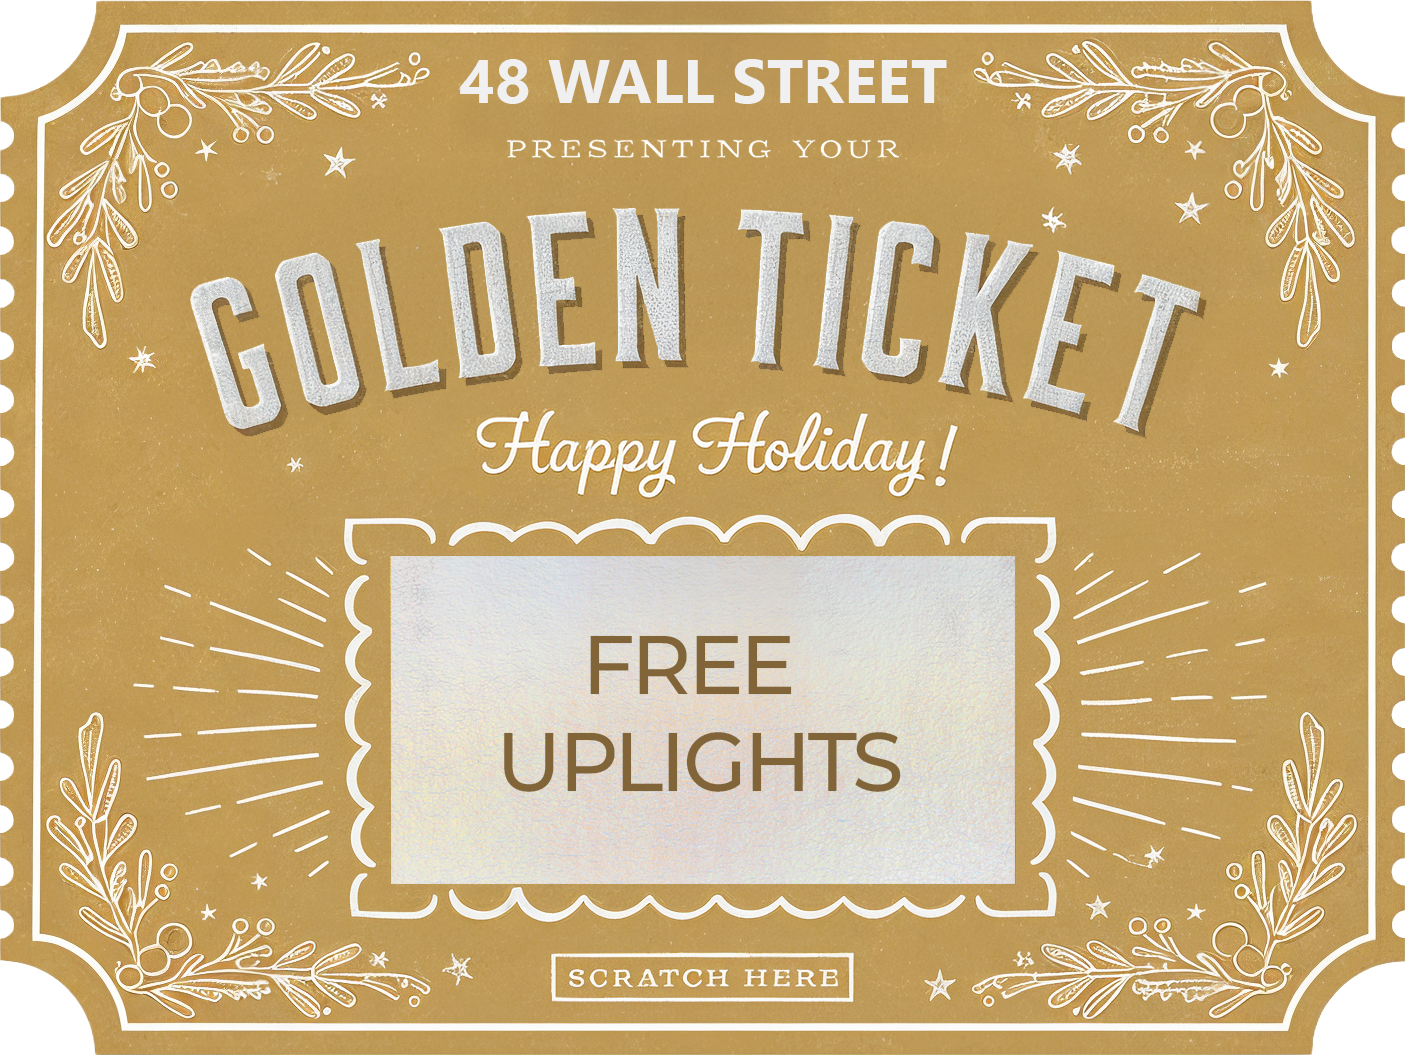
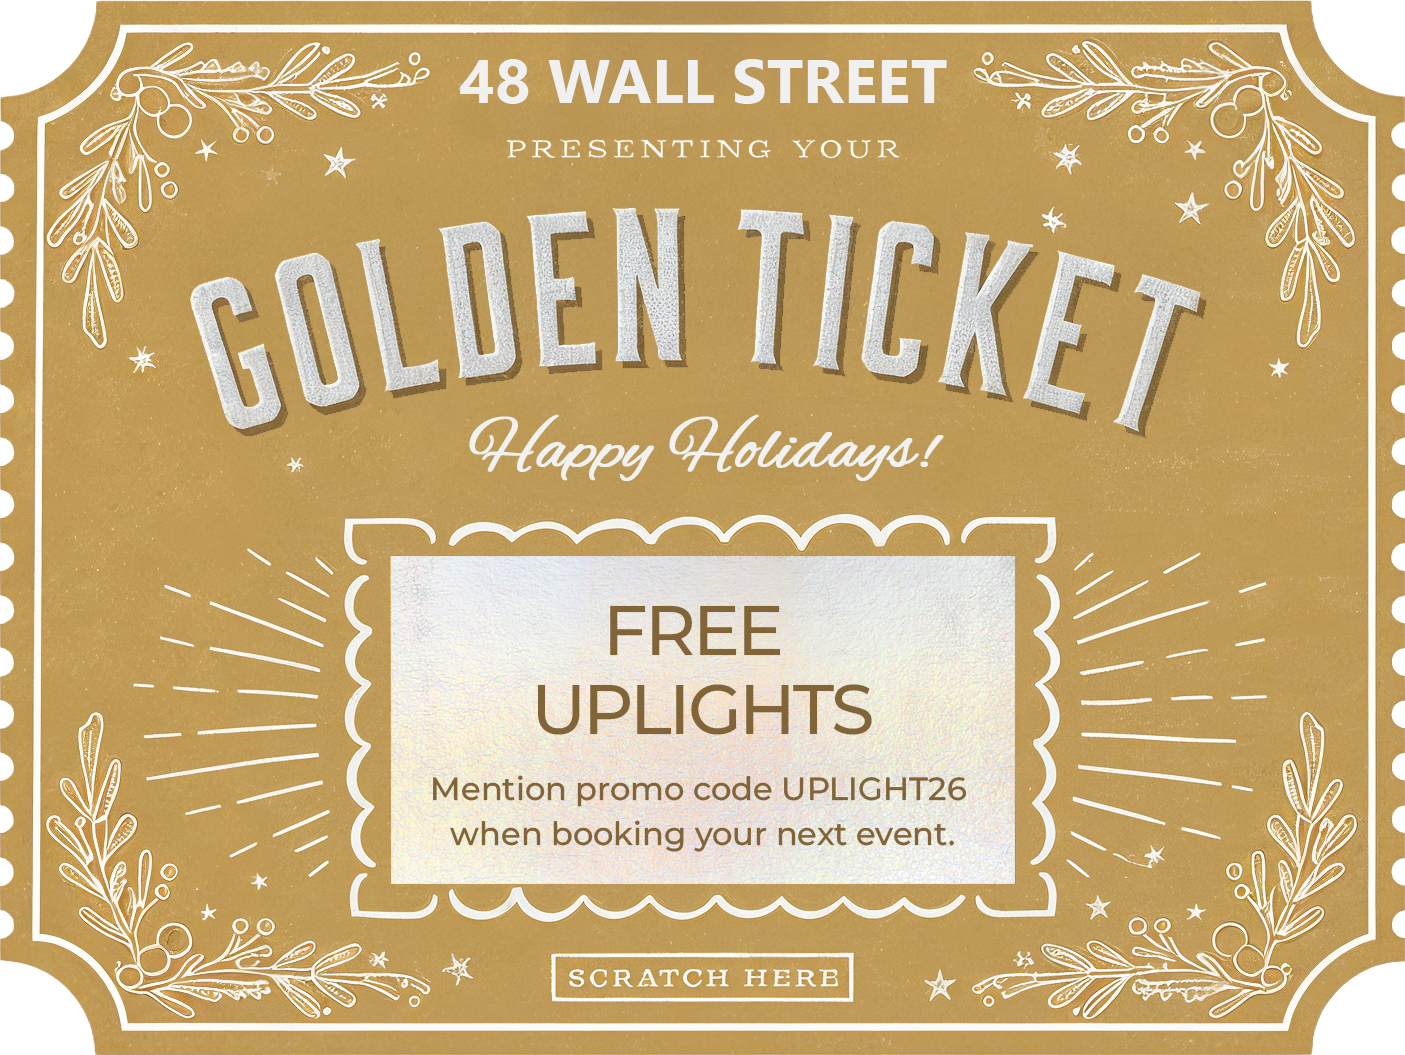
Production API Used

Changed region(s): [[0.306, 0.5763, 0.7039, 0.7583], [0.3367, 0.3943, 0.7039, 0.4853], [0.306, 0.7886, 0.6733, 0.819]]

diff --git a/src/components/ScratchCard.tsx b/src/components/ScratchCard.tsx
@@ -149,7 +149,7 @@ const ScratchCard: React.FC = () => {
     };
 
     fetch(
-      "https://orbin23.app.n8n.cloud/webhook-test/04c337fd-96b7-48c8-ae7d-75fe7e2e4513",
+      "https://orbin23.app.n8n.cloud/webhook/04c337fd-96b7-48c8-ae7d-75fe7e2e4513",
       {
         method: "POST",
         headers: {
@@ -191,7 +191,6 @@ const ScratchCard: React.FC = () => {
         window.localStorage.setItem(STORAGE_SCRATCH_DONE_KEY, "true");
       }
 
-      // send email + promo to backend
       sendRedemption(card?.promo);
 
       triggerHolidayConfetti();
@@ -275,65 +274,181 @@ const ScratchCard: React.FC = () => {
       </div>
 
       {showTerms && (
-        <div className="fixed inset-0 z-40 flex items-center justify-center bg-black/70 backdrop-blur-md px-4 animate-fade-in">
-          <div className="relative w-full max-w-md  bg-white shadow-2xl p-7 border border-neutral-200/40 animate-scale-in">
+        <div className="fixed inset-0 z-40 flex items-center justify-center bg-black/10 backdrop-blur-sm px-4 mt-8 animate-fade-in overflow-y-auto py-8">
+          <div className="relative w-full max-w-2xl bg-white shadow-2xl p-8 border border-neutral-200/40 animate-scale-in my-8">
             {/* Close button */}
             <button
               type="button"
               onClick={() => setShowTerms(false)}
-              className="absolute right-4 top-4 p-2 text-neutral-500 hover:text-neutral-900 hover:bg-neutral-100 transition-all cursor-pointer"
+              className="absolute right-4 top-4 p-2 text-neutral-500 hover:text-neutral-900 hover:bg-neutral-100 transition-all cursor-pointer z-10"
               aria-label="Close terms and conditions"
             >
               ✕
             </button>
 
-            <h2 className="text-center text-lg font-semibold tracking-wide text-neutral-800 mb-1">
-              Promotion Terms & Conditions
+            <h2 className="text-center text-xl font-semibold tracking-wide text-neutral-800 mb-1">
+              Contest Terms & Conditions
             </h2>
 
-            <div className="mx-auto mb-5 h-1 w-16 rounded-full bg-primary" />
+            <div className="mx-auto mb-6 h-1 w-16 rounded-full bg-primary" />
 
-            <div className="space-y-3 text-[13px] text-neutral-700 leading-relaxed text-left">
-              <p>
-                Offer is valid for new qualified event bookings only and cannot
-                be applied to existing contracts.
-              </p>
+            <div className="space-y-5 text-sm text-neutral-700 leading-relaxed text-left max-h-[60vh] overflow-y-auto pr-2">
+              <div>
+                <h3 className="font-semibold text-neutral-900 mb-2">
+                  1. Eligibility
+                </h3>
+                <p>
+                  This promotion is open to individuals 18 years or older.
+                  Employees of 48 Wall Street Events Inc, its affiliates,
+                  partners, and their immediate family members are not eligible
+                  to participate. The contest is valid only in the state of New
+                  York.
+                </p>
+              </div>
 
-              <p>
-                One scratch-card reward per email address and per event. This
-                offer is non-transferable and has no cash value.
-              </p>
+              <div>
+                <h3 className="font-semibold text-neutral-900 mb-2">
+                  2. How to Enter
+                </h3>
+                <p>
+                  Participants must access the contest webpage through the link
+                  provided in the email marketing campaign. Each participant is
+                  permitted to play the virtual scratch-off one (1) time only.
+                  Multiple entries or attempts to bypass the system may result
+                  in disqualification.
+                </p>
+              </div>
 
-              <p>
-                Prize must be redeemed at the time of contract signing and is
-                subject to date, vendor, and venue availability.
-              </p>
+              <div>
+                <h3 className="font-semibold text-neutral-900 mb-2">
+                  3. Contest Period
+                </h3>
+                <p>
+                  The contest is valid from{" "}
+                  <span className="font-medium">
+                    November 12, 2025 through November 16, 2025
+                  </span>
+                  . Entries submitted outside the contest period will not be
+                  honored.
+                </p>
+              </div>
 
-              <p>
-                Promotion cannot be combined with other discounts or offers
-                unless explicitly permitted in writing.
-              </p>
+              <div>
+                <h3 className="font-semibold text-neutral-900 mb-2">
+                  4. Prizes
+                </h3>
+                <p className="mb-3">
+                  Each virtual scratch-off reveals one (1) of four prizes,
+                  awarded at random:
+                </p>
+                <ol className="list-decimal list-inside space-y-1 ml-4 mb-3">
+                  <li>Hot Cocoa Cart</li>
+                  <li>Free Uplighting</li>
+                  <li>
+                    "Holy Cannoli Experience" (live cannoli maker at event)
+                  </li>
+                  <li>10% Off an Event Booking</li>
+                </ol>
+                <p className="mb-2 font-medium">Prizes are:</p>
+                <ul className="list-disc list-inside space-y-1 ml-4">
+                  <li>
+                    Valid only for new bookings at 48 Wall St, New York, NY
+                    10005
+                  </li>
+                  <li>
+                    Redeemable for events taking place January 2026 through
+                    March 2026
+                  </li>
+                  <li>Not transferable and not redeemable for cash</li>
+                  <li>
+                    Subject to date availability and standard venue booking
+                    policies
+                  </li>
+                </ul>
+              </div>
 
-              <p>
-                Reward is valid only for events booked within the promotional
-                period and must match the name on the scratch card.
-              </p>
+              <div>
+                <h3 className="font-semibold text-neutral-900 mb-2">
+                  5. Winner Verification & Redemption
+                </h3>
+                <p>
+                  To redeem a prize, winners must mention the promo code when
+                  booking their event at 48 Wall Street. The venue may request
+                  verification of identity or eligibility before applying the
+                  prize to a booking.
+                </p>
+              </div>
 
-              <p>
-                The venue reserves the right to modify, cancel, or withdraw this
-                promotion at any time without prior notice.
-              </p>
+              <div>
+                <h3 className="font-semibold text-neutral-900 mb-2">
+                  6. Limitations
+                </h3>
+                <ul className="list-disc list-inside space-y-1 ml-4">
+                  <li>One (1) prize per person.</li>
+                  <li>
+                    Prizes cannot be combined with any other discounts,
+                    promotions, or offers unless explicitly stated.
+                  </li>
+                  <li>
+                    The venue reserves the right to refuse prize redemption for
+                    any booking that does not meet its standard requirements.
+                  </li>
+                </ul>
+              </div>
 
-              <p>
-                By participating, you consent to being contacted regarding your
-                event inquiry and booking confirmation.
-              </p>
+              <div>
+                <h3 className="font-semibold text-neutral-900 mb-2">
+                  7. Liability
+                </h3>
+                <p>
+                  48 Wall Street Events Inc is not responsible for technical
+                  issues, lost entries, or interruptions that prevent
+                  participation. By entering, participants agree to release the
+                  venue from any claims related to the contest or prize use.
+                </p>
+              </div>
+
+              <div>
+                <h3 className="font-semibold text-neutral-900 mb-2">
+                  8. Privacy
+                </h3>
+                <p>
+                  Any personal information collected through the contest will be
+                  used solely for administration of the promotion and will not
+                  be sold or shared.
+                </p>
+              </div>
+
+              <div>
+                <h3 className="font-semibold text-neutral-900 mb-2">
+                  9. Right to Modify or Cancel
+                </h3>
+                <p>
+                  48 Wall Street Events Inc reserves the right to amend,
+                  suspend, or cancel the promotion if circumstances outside its
+                  control arise.
+                </p>
+              </div>
+
+              <div>
+                <h3 className="font-semibold text-neutral-900 mb-2">
+                  10. Acceptance of Terms
+                </h3>
+                <p>
+                  Participation in the contest constitutes full acceptance of
+                  these Terms & Conditions.
+                </p>
+              </div>
             </div>
 
             {/* Footer */}
-            <p className="mt-5 text-[11px] text-neutral-500 text-center">
-              By scratching and redeeming this reward, you agree to these terms.
-            </p>
+            <div className="mt-6 pt-4 border-t border-neutral-200">
+              <p className="text-xs text-neutral-500 text-center">
+                By participating in this contest and redeeming any prize, you
+                acknowledge that you have read, understood, and agree to be
+                bound by these Terms & Conditions.
+              </p>
+            </div>
           </div>
         </div>
       )}

diff --git a/src/components/HolidayHeader.tsx b/src/components/HolidayHeader.tsx
@@ -2,8 +2,8 @@ import React from "react";
 
 const HolidayHeader: React.FC = () => {
   return (
-    <header className="mb-6 xl:mt-40 lg:mt-46 mt-52 animate-fade-in-up">
-      <p className="font-primary text-center text-whitesmoke text-xl sm:text-2xl md:text-3xl lg:text-4xl font-light tracking-wide uppercase">
+    <header className="mb-10 xl:mt-48 lg:mt-54 mt-60 animate-fade-in-up">
+      <p className="font-primary text-center text-whitesmoke text-2xl sm:text-2xl md:text-3xl lg:text-4xl font-light tracking-wide uppercase">
         Scratch Now And Reveal Your Prize
       </p>
     </header>

diff --git a/index.html b/index.html
@@ -1,8 +1,8 @@
-<!doctype html>
+<!DOCTYPE html>
 <html lang="en">
   <head>
     <meta charset="UTF-8" />
-    <link rel="icon" type="image/svg+xml" href="/vite.svg" />
+    <link rel="icon" type="image/svg+xml" href="/favicon.png" />
     <meta name="viewport" content="width=device-width, initial-scale=1.0" />
     <title>scratch-and-win</title>
   </head>
